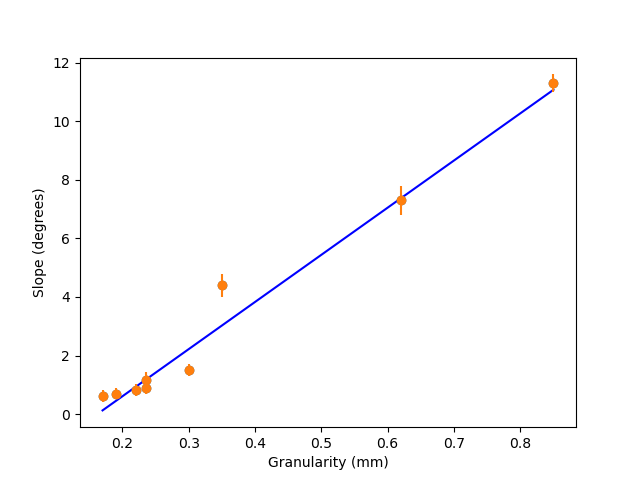
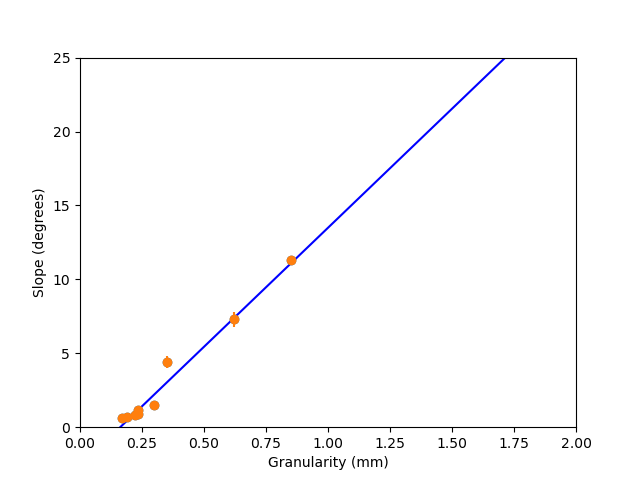
finishe exercise 4

diff --git a/exercise_04/sand_slope.py b/exercise_04/sand_slope.py
@@ -1,12 +1,44 @@
 import numpy as np
 import matplotlib.pyplot as plt
 
-# imprt the sand data
+slope = 16.1
+offset = -2.61
+m_unc = 1
+q_unc = 0.34
+# import the sand data
 sand_data = np.loadtxt('sand.txt')
-linear_fit_given = sand_data[:, 0] * 16.1 - 2.61
-plt.plot(sand_data[:, 0], linear_fit_given, 'b')
+
+linear_fit_given = np.linspace(0, 3) * 16.1 - 2.61
+
+plt.plot(np.linspace(0, 3), linear_fit_given, 'b')
 plt.plot(sand_data[:, 0], sand_data[:, 1], 'o')
 plt.errorbar(sand_data[:, 0], sand_data[:, 1], yerr=sand_data[:, 2], fmt='o')
 plt.xlabel('Granularity (mm)')
 plt.ylabel('Slope (degrees)')
+plt.xlim(0, 2)
+plt.ylim(0, 25)
 plt.savefig('sand_slope.png')
+plt.show()
+
+
+def get_slope_ignore_covariance(granularity, m, q, granularity_unc, offset_unc):
+    slope = m * granularity + q
+    slope_unc = np.sqrt((granularity * granularity_unc) ** 2 + (offset_unc) ** 2)
+    return slope, slope_unc
+
+
+def get_slope_with_covariance(granularity, m, q, granularity_unc, offset_unc):
+    slope = m * granularity + q
+    # get uncertainty from variables m and q
+    slope_unc = np.sqrt((granularity * granularity_unc) ** 2 + (offset_unc) ** 2 + 2 * granularity * offset_unc)
+    return slope, slope_unc
+
+
+slope_1, slope_1_unc = get_slope_ignore_covariance(1.5, slope, offset, m_unc, q_unc)
+slope_2, slope_2_unc = get_slope_with_covariance(1.5, slope, offset, m_unc, q_unc)
+
+print(f'4b) The slope without considering the covariance is: {slope_1:.1f} +/- {slope_1_unc:.1f}')
+print(f'4b) The slope considering the covariance is: {slope_2:.1f} +/- {slope_2_unc:.1f}')
+print('The uncertainty considering the covariance is higher because it takes the effect of two indeendent variables '
+      'into account. This shows that it is important to consider the variance bbecause otherwise one would '
+      'underestumate the uncertainty.')
